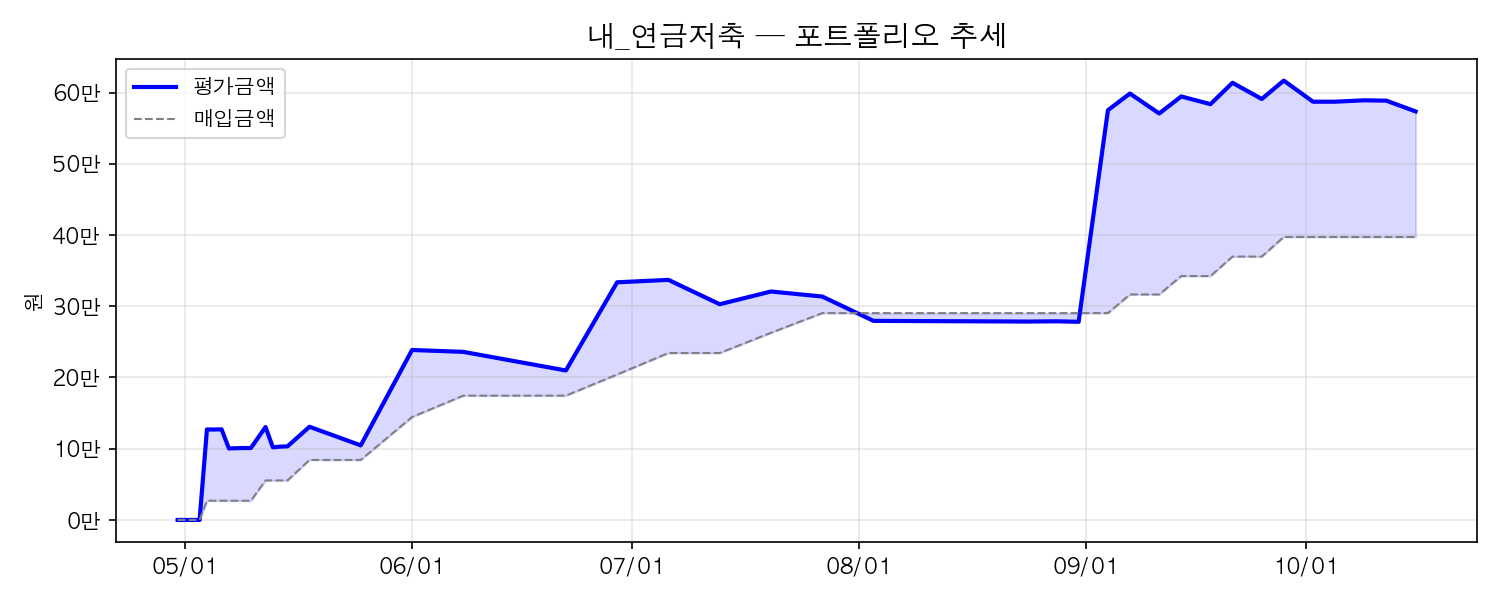
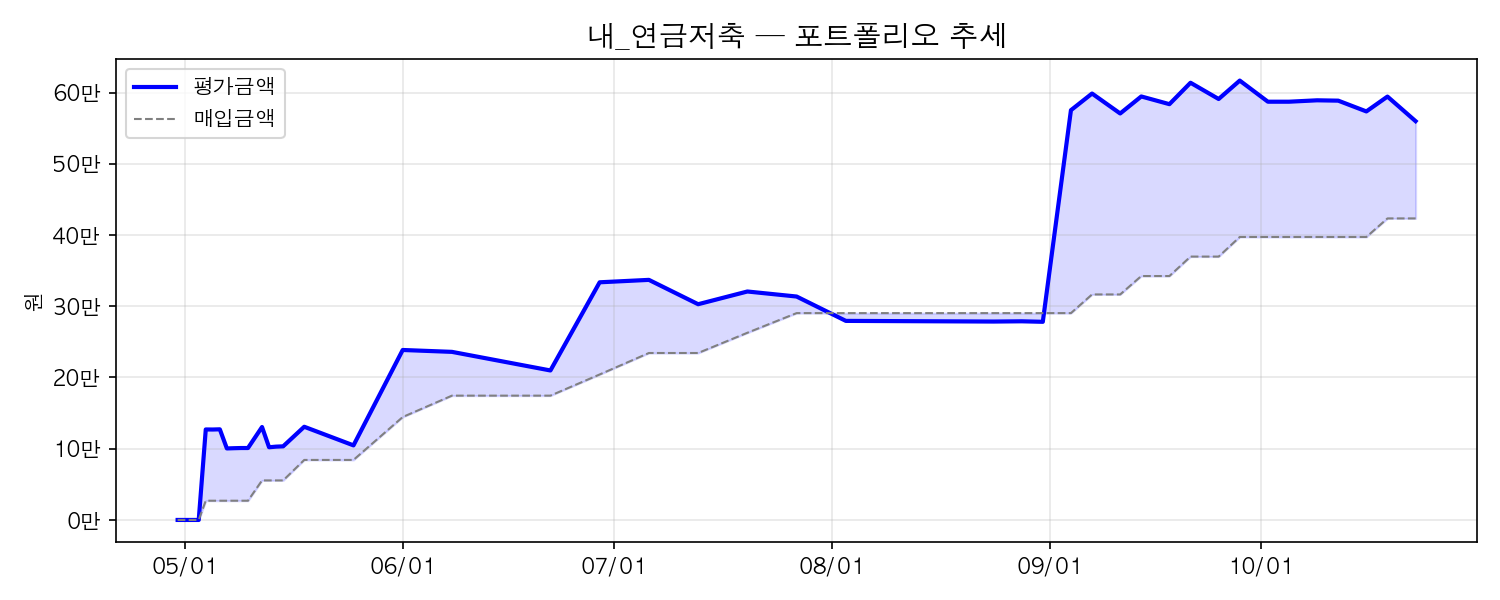
섹션별 주간 리포트 (자동 생성)

diff --git a/_posts/2026-10-23-etf-weekly-week29.md b/_posts/2026-10-23-etf-weekly-week29.md
@@ -1,0 +1,50 @@
+---
+layout: post
+title: "Week 29 — 부모님 연금 ETF 주간 리포트"
+date: 2026-10-23
+categories: [investing, etf]
+tags: [weekly]
+---
+
+> 부모님 연금저축 ETF 실험 — 29주차 기록.
+
+---
+
+## 29주차 성과
+
+### 엄마_연금
+
+| 종목 | 수량 | 평단가 | 종가 | 평가액 | 수익률 |
+|------|------|--------|------|--------|--------|
+| ACE KRX금현물 | 47주 | ₩30,513 | ₩23,810 | ₩1,119,070 | -22.0% |
+| RISE 200 | 12주 | ₩86,453 | ₩87,745 | ₩1,052,940 | +1.5% |
+| KODEX 미국S&P500 | 43주 | ₩23,192 | ₩22,915 | ₩985,345 | -1.2% |
+| TIGER Fn신재생에너지 | 31주 | ₩27,199 | ₩19,255 | ₩596,905 | -29.2% |
+| KODEX 인도Nifty50 | 44주 | ₩12,372 | ₩10,495 | ₩461,780 | -15.2% |
+| KODEX 고배당주 | 17주 | ₩17,008 | ₩16,425 | ₩279,225 | -3.4% |
+
+**투자 ₩5,145,472 → 평가 ₩4,495,265 | -650,207원 (-12.6%)**
+
+예수금: ₩1,543,706
+---
+
+### 아빠_연금
+
+| 종목 | 수량 | 평단가 | 종가 | 평가액 | 수익률 |
+|------|------|--------|------|--------|--------|
+| ACE KRX금현물 | 47주 | ₩30,514 | ₩23,810 | ₩1,119,070 | -22.0% |
+| RISE 200 | 12주 | ₩86,489 | ₩87,745 | ₩1,052,940 | +1.4% |
+| KODEX 미국S&P500 | 43주 | ₩23,191 | ₩22,915 | ₩985,345 | -1.2% |
+| TIGER Fn신재생에너지 | 31주 | ₩27,193 | ₩19,255 | ₩596,905 | -29.2% |
+| KODEX 인도Nifty50 | 44주 | ₩12,379 | ₩10,495 | ₩461,780 | -15.2% |
+| TIGER 미국배당다우존스 | 21주 | ₩14,112 | ₩14,810 | ₩311,010 | +4.9% |
+| PLUS 고배당주 | 1주 | ₩25,370 | ₩22,460 | ₩22,460 | -11.5% |
+
+**투자 ₩5,178,612 → 평가 ₩4,549,510 | -629,102원 (-12.1%)**
+
+예수금: ₩920,425
+
+
+---
+
+*데이터: 한국투자증권 KIS Open API / 2026-10-23 장 마감 기준*

diff --git a/_posts/2026-10-23-dividend-weekly-week29.md b/_posts/2026-10-23-dividend-weekly-week29.md
@@ -1,0 +1,32 @@
+---
+layout: post
+title: "Week 29 — ISA 배당 포트 주간 리포트"
+date: 2026-10-23
+categories: [investing, dividend]
+tags: [weekly]
+---
+
+> ISA 배당 포트폴리오 — 29주차 기록.
+
+---
+
+## 29주차 성과
+
+### 한투_ISA
+
+| 종목 | 수량 | 평단가 | 종가 | 평가액 | 수익률 |
+|------|------|--------|------|--------|--------|
+| KT&G | 11주 | ₩168,800 | ₩189,400 | ₩2,083,400 | +12.2% |
+| 삼성화재우 | 5주 | ₩378,520 | ₩389,000 | ₩1,945,000 | +2.8% |
+| 고려신용정보 | 218주 | ₩10,004 | ₩8,850 | ₩1,929,300 | -11.5% |
+| KODEX 고배당주 | 115주 | ₩17,942 | ₩16,425 | ₩1,888,875 | -8.4% |
+| 빙그레 | 23주 | ₩73,386 | ₩75,200 | ₩1,729,600 | +2.5% |
+
+**투자 ₩9,681,578 → 평가 ₩9,576,175 | -105,403원 (-1.1%)**
+
+예수금: ₩143,587
+
+
+---
+
+*데이터: 한국투자증권 KIS Open API / 2026-10-23 장 마감 기준*
